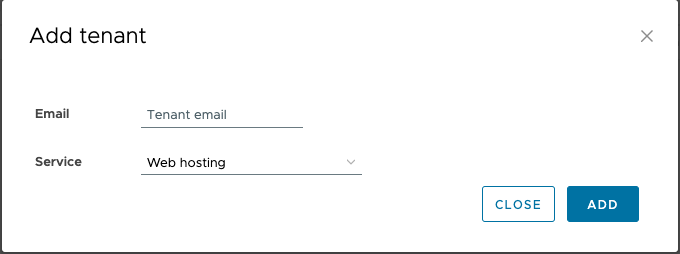
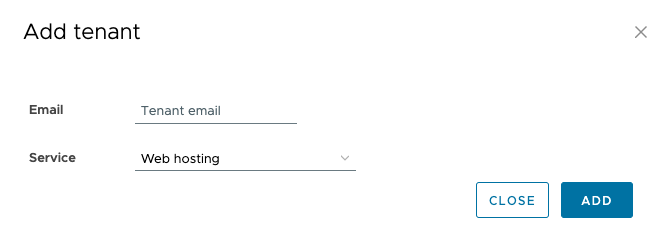
fix readme

diff --git a/README.md b/README.md
@@ -14,8 +14,6 @@ Covered functionallity:
 
 ![Add tenant](assets/2024-12-20.23.44.43.png "Add tenant")
 
-![Add tenant](assets/2024-12-20.23.44.43.png "Add tenant")
-
 ![Manage sla action](assets/2024-12-20.23.45.17.png "Manage sla action")
 
 ![Manage sla modal](assets/2024-12-20.23.46.05.png "Manage sla modal")
